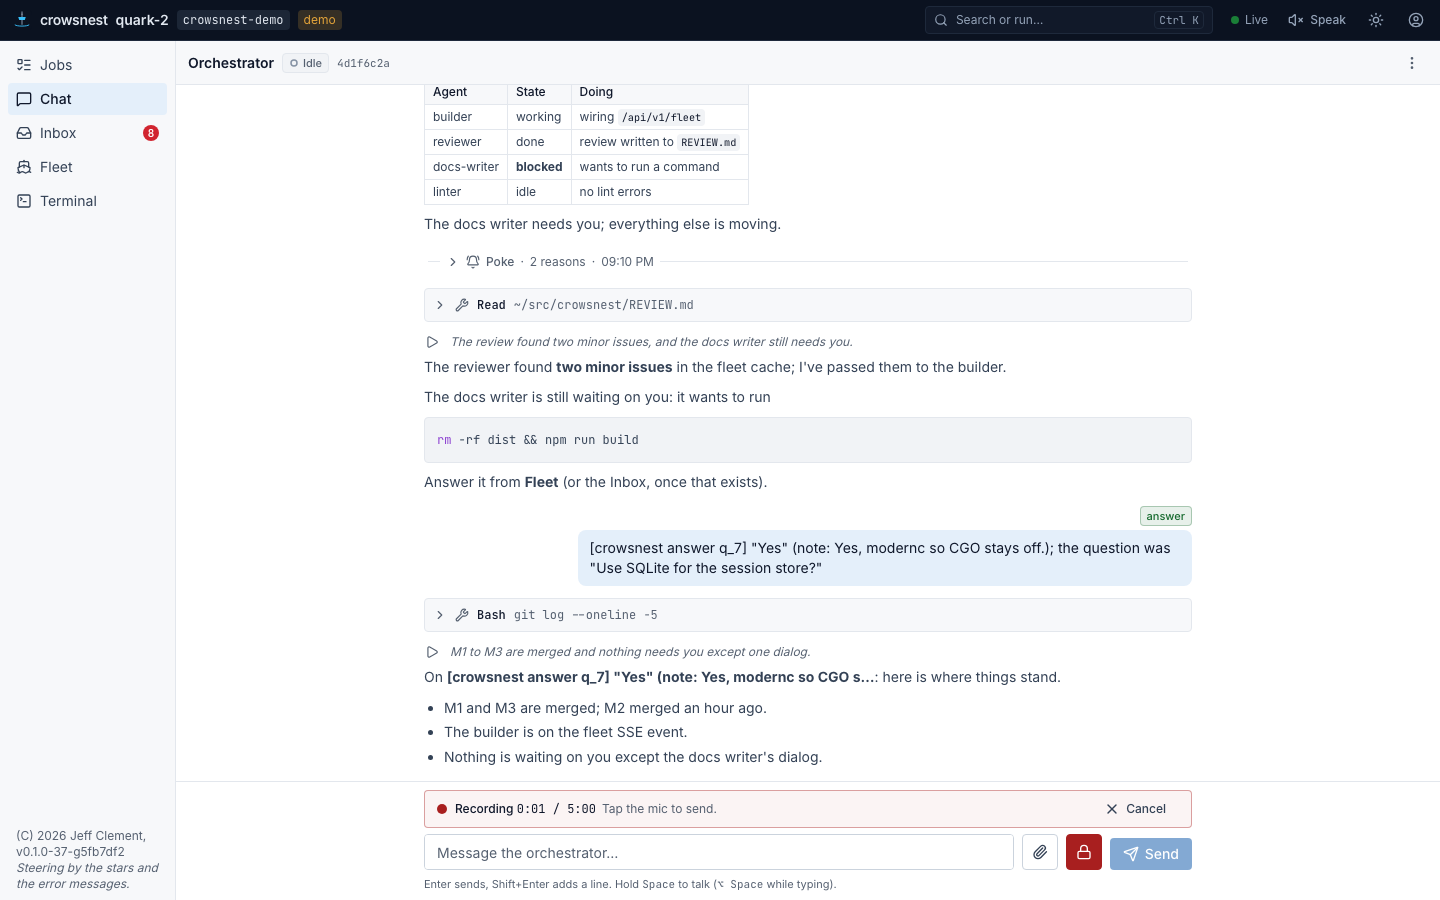
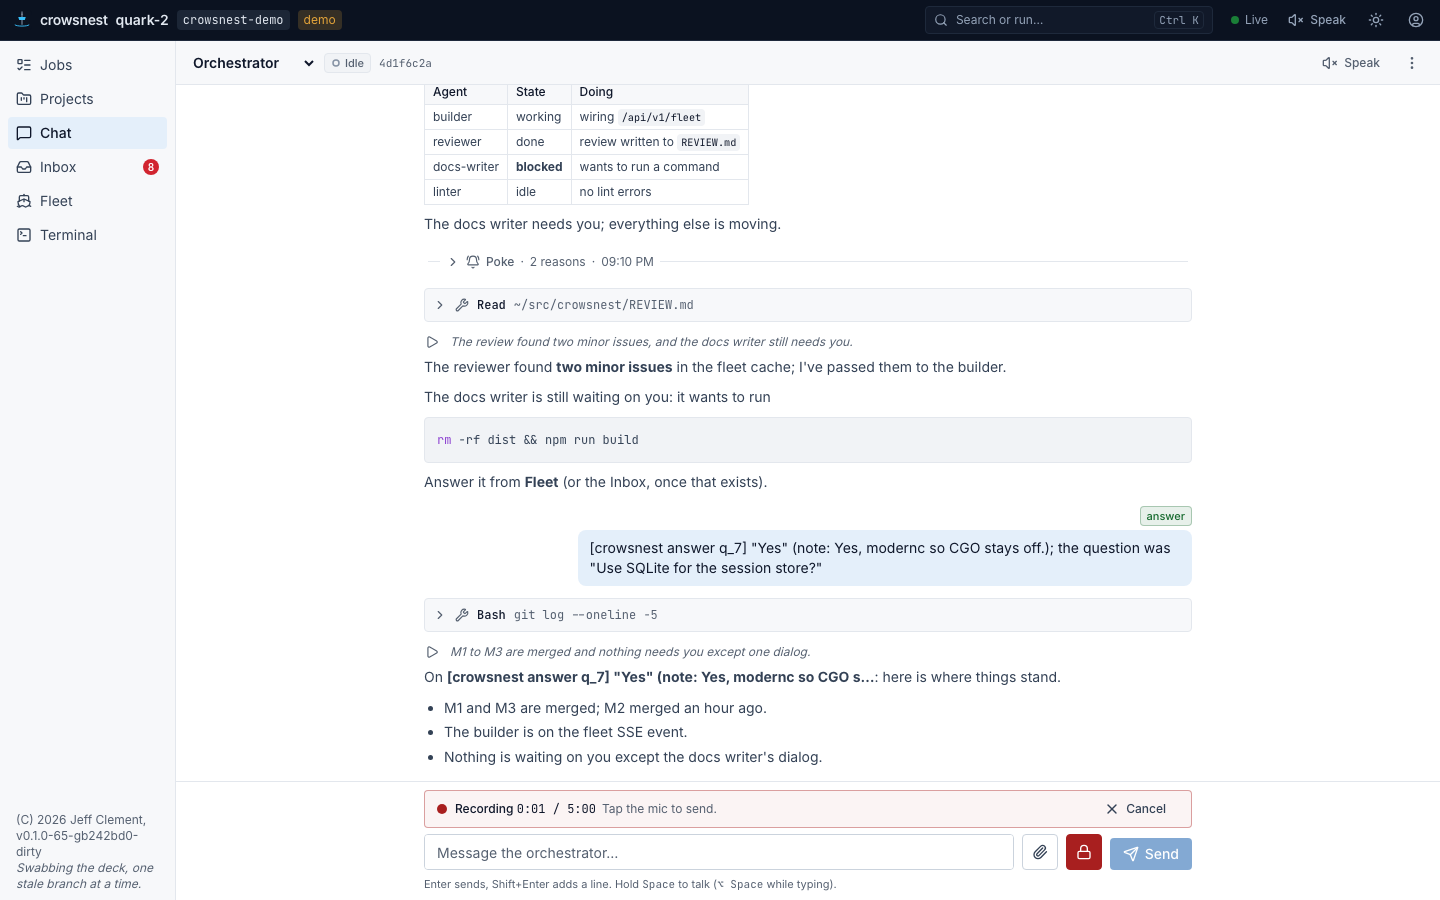
web: hermetic journeys for projects, leads, instructions and app schedules; per-agent voices in the talk suite; fixes found by them (switcher overflow, toasts after a remount)

diff --git a/web/e2e/hermetic/projects.spec.ts b/web/e2e/hermetic/projects.spec.ts
@@ -1,0 +1,202 @@
+// Projects, leads, instruction layers and app schedules (DESIGN.md 21) against `crowsnest --demo`,
+// which seeds three projects (crowsnest and website with their leads running and answering with
+// canned replies, infra with its lead off), jobs filed under them, the schedules evening-review
+// (to the crowsnest lead) and link-check (a job for website), and edited instruction layers.
+//
+// Journeys, at 1440 and 375 px: create a project from a directory the test makes; start a lead
+// and give it a job "to the lead", held by lead-<slug>; chat with a lead and get its reply;
+// filter the board by project (remembered across a reload); edit a role's instructions and see
+// the diff against the built-in; make a schedule and Run it now. The desktop and phone Chromium
+// runs also photograph the views into web/screenshots (projects-*.png), light and dark.
+import { mkdtempSync, rmSync } from "node:fs";
+import { tmpdir } from "node:os";
+import { join } from "node:path";
+import type { Page, TestInfo } from "@playwright/test";
+import { expect, expectNoSidewaysScroll, isPhone, test } from "../support/fixtures";
+
+/** Photographs from the two Chromium projects only (WebKit would write the same files). */
+async function shot(page: Page, testInfo: TestInfo, name: string, dark = false) {
+  if (testInfo.project.name === "mobile-webkit") return;
+  const size = isPhone(testInfo) ? "375x812" : "1440x900";
+  if (dark) {
+    await page.evaluate(() => {
+      localStorage.setItem("crowsnest-theme", "dark");
+      document.documentElement.classList.add("dark");
+    });
+  }
+  await page.evaluate(() => document.fonts.ready);
+  await page.screenshot({ path: `screenshots/projects-${name}-${size}${dark ? "-dark" : ""}.png`, animations: "disabled", caret: "hide" });
+  if (dark) {
+    await page.evaluate(() => {
+      localStorage.setItem("crowsnest-theme", "light");
+      document.documentElement.classList.remove("dark");
+    });
+  }
+}
+
+test.beforeEach(async ({ page }) => {
+  await page.addInitScript(() => {
+    if (!localStorage.getItem("crowsnest-theme")) localStorage.setItem("crowsnest-theme", "light");
+  });
+});
+
+test("the projects list shows each lead's state and counts; a project page has its lead, jobs, schedules and instructions", async ({ page }, testInfo) => {
+  await page.goto("/projects");
+  const list = page.getByRole("list", { name: "Projects" });
+  await expect(list.getByRole("link", { name: /Crowsnest/ })).toBeVisible();
+  await expect(list.getByRole("link", { name: /Infra/ })).toContainText("Lead off");
+  await expect(list.getByRole("link", { name: /Website/ })).not.toContainText("Lead off");
+  if (isPhone(testInfo)) await expectNoSidewaysScroll(page);
+  await shot(page, testInfo, "list");
+
+  await list.getByRole("link", { name: /Crowsnest/ }).click();
+  await expect(page).toHaveURL(/\/projects\/crowsnest$/);
+  const project = page.getByRole("article", { name: "Crowsnest" });
+  await expect(project.getByTestId("lead-state")).not.toHaveText("Lead off");
+  await expect(project.getByRole("region", { name: "Project schedules" })).toContainText("evening-review");
+  await expect(project.getByRole("region", { name: "Project instructions" }).getByRole("textbox")).toHaveValue(/mise run check/);
+  await expect(project.getByRole("region", { name: "Instructions" }).getByRole("list", { name: "Layers at start" })).toBeVisible();
+  if (isPhone(testInfo)) await expectNoSidewaysScroll(page);
+  await shot(page, testInfo, "detail");
+  await shot(page, testInfo, "detail", true);
+});
+
+test("create a project from a directory: the name follows the directory, and the project page opens", async ({ page }, testInfo) => {
+  const dir = mkdtempSync(join(tmpdir(), "cn-e2e-garden-"));
+  try {
+    await page.goto("/projects");
+    await page.getByRole("button", { name: "New project" }).first().click();
+    const form = page.getByRole("form", { name: "New project" });
+    await form.getByLabel(/Directory/).fill(dir);
+    await expect(form.getByLabel("Name", { exact: true })).toHaveValue(/^Cn e2e garden/);
+    await form.getByLabel("Name", { exact: true }).fill("Garden");
+    await form.getByRole("button", { name: /Defaults for its jobs/ }).click();
+    await form.getByLabel("Start the lead").selectOption("manual");
+    if (isPhone(testInfo)) await expectNoSidewaysScroll(page);
+    await shot(page, testInfo, "new");
+    await form.getByRole("button", { name: "Create project" }).click();
+    await expect(page).toHaveURL(/\/projects\/garden$/);
+    const project = page.getByRole("article", { name: "Garden" });
+    await expect(project.getByTestId("lead-state")).toHaveText("Lead off");
+    await expect(project).toContainText(dir.split("/").pop() ?? "");
+
+    // The server's refusal comes back in words: a second project on the same directory overlaps.
+    await page.goto("/projects");
+    await page.getByRole("button", { name: "New project" }).first().click();
+    await page.getByRole("form", { name: "New project" }).getByLabel(/Directory/).fill(dir);
+    await page.getByRole("form", { name: "New project" }).getByLabel("Name", { exact: true }).fill("Garden again");
+    await page.getByRole("button", { name: "Create project" }).click();
+    await expect(page.getByRole("form", { name: "New project" }).getByRole("alert")).toBeVisible();
+  } finally {
+    rmSync(dir, { recursive: true, force: true });
+  }
+});
+
+test("start a lead and give it a job to the lead: filed in the project, for its lead, with no directory", async ({ page }) => {
+  await page.goto("/projects/infra");
+  const project = page.getByRole("article", { name: "Infra" });
+  await expect(project.getByTestId("lead-state")).toHaveText("Lead off");
+  await project.getByRole("button", { name: "Start lead" }).click();
+  await expect(project.getByTestId("lead-state")).not.toHaveText("Lead off", { timeout: 20_000 });
+
+  await page.goto("/?project=infra");
+  await expect(page.getByRole("radio", { name: /^Infra/ })).toHaveAttribute("aria-checked", "true");
+  await expect(page.getByRole("radio", { name: "To the lead" })).toHaveAttribute("aria-checked", "true");
+  await page.getByLabel("What needs doing?").fill("Rotate the devbox image's base to the new release");
+  await page.getByRole("button", { name: "Give job" }).click();
+  await expect(page.getByText("Given to Infra's lead")).toBeVisible();
+  const card = page.getByRole("button", { name: /Rotate the devbox image/ }).first();
+  await expect(card).toBeVisible();
+  const job = await page.evaluate(() =>
+    fetch("/api/v1/jobs")
+      .then((r) => r.json())
+      .then((body: { data: Array<{ title: string; project_id: number; dir: string; role: string; agent_name: string }> }) => body.data.find((j) => j.title.startsWith("Rotate the devbox"))),
+  );
+  const infra = await page.evaluate(() => fetch("/api/v1/projects/infra").then((r) => r.json()).then((body: { data: { id: number } }) => body.data.id));
+  expect(job).toMatchObject({ project_id: infra, dir: "", role: "lead" });
+  // The demo's supervisor does not dispatch queued jobs to standing agents, so the job waits for
+  // the lead here (with real herdr the lead takes it and agent_name becomes lead-infra).
+  expect(["", "lead-infra"]).toContain(job?.agent_name ?? "");
+});
+
+test("chat with a project's lead: the target is in the URL and the lead replies", async ({ page }, testInfo) => {
+  await page.goto("/chat");
+  await page.getByTestId("chat-target").selectOption("lead-crowsnest");
+  await expect(page).toHaveURL(/target=lead-crowsnest/);
+  const box = page.getByRole("textbox", { name: "Message to Crowsnest's lead" });
+  await expect(box).toBeVisible({ timeout: 15_000 });
+  const replies = page.getByRole("article", { name: "Reply" });
+  const before = await replies.count();
+  await box.fill("What is open in this project?");
+  await page.getByRole("button", { name: "Send" }).click();
+  await expect(page.getByRole("list", { name: "Conversation" }).getByText("What is open in this project?", { exact: true })).toBeVisible();
+  await expect(replies).toHaveCount(before + 1, { timeout: 20_000 });
+  if (isPhone(testInfo)) await expectNoSidewaysScroll(page);
+  await shot(page, testInfo, "chat-lead");
+
+  // The menu acts on the lead: no compaction, but its instructions.
+  await page.getByRole("button", { name: "Conversation menu" }).click();
+  await expect(page.getByRole("menuitem", { name: "Compact now" })).toHaveCount(0);
+  await page.getByRole("menuitem", { name: "Instructions" }).click();
+  await expect(page.getByRole("dialog").getByRole("list", { name: "Layers at start" })).toBeVisible();
+});
+
+test("filter the board by project; the choice is remembered", async ({ page }) => {
+  await page.goto("/");
+  await expect(page.getByRole("region", { name: "Needs you or stuck" })).toBeVisible();
+  await page.getByRole("radio", { name: /^Website/ }).click();
+  await expect(page).toHaveURL(/project=website/);
+  const cards = page.locator('ul > li > button[class*="min-h-14"]');
+  await expect(cards.first()).toBeVisible();
+  const allCount = await page.evaluate(() => fetch("/api/v1/jobs").then((r) => r.json()).then((body: { data: unknown[] }) => body.data.length));
+  expect(await cards.count()).toBeLessThan(allCount);
+  await page.goto("/");
+  await expect(page.getByRole("radio", { name: /^Website/ })).toHaveAttribute("aria-checked", "true");
+  await page.getByRole("radio", { name: /^All/ }).click();
+  await expect(page.getByRole("button", { name: /Crowsnest/ }).first()).toBeVisible();
+});
+
+test("edit a role's instructions and see the diff against the built-in", async ({ page }, testInfo) => {
+  await page.goto("/");
+  await page.getByRole("button", { name: "Account" }).click();
+  await page.getByRole("menuitem", { name: "Instructions" }).click();
+  const sheet = page.getByRole("dialog", { name: "Instructions" });
+  await sheet.getByRole("region", { name: "Roles" }).getByRole("button", { name: /tester/ }).click();
+  const editor = sheet.getByRole("textbox", { name: /tester instructions/ });
+  await expect(editor).not.toHaveValue("");
+  await expect(sheet.getByTestId("layer-source")).toHaveText("built-in");
+  await editor.fill(`${await editor.inputValue()}\n\nAlways attach the failing test's output.`);
+  await sheet.getByRole("button", { name: "Save", exact: true }).click();
+  await expect(page.getByText("Instructions saved")).toBeVisible();
+  await expect(sheet.getByTestId("layer-source")).toHaveText("edited");
+  await sheet.getByRole("tab", { name: "Diff vs built-in" }).click();
+  await expect(sheet.getByText("Always attach the failing test's output.")).toBeVisible();
+  if (isPhone(testInfo)) await expectNoSidewaysScroll(page);
+  await shot(page, testInfo, "instructions");
+  await sheet.getByRole("tab", { name: /History/ }).click();
+  await expect(sheet.getByRole("list", { name: "Revisions" }).getByRole("listitem")).toHaveCount(1);
+});
+
+test("make a schedule in the app and Run it now", async ({ page }, testInfo) => {
+  await page.goto("/");
+  await page.getByRole("button", { name: "Schedule", exact: true }).click();
+  const sheet = page.getByRole("dialog", { name: "Schedule" });
+  await expect(sheet.getByText("link-check").locator("visible=true").first()).toBeVisible();
+  await sheet.getByRole("button", { name: "New schedule" }).click();
+  const form = sheet.getByRole("form", { name: "New schedule" });
+  await form.getByLabel("Name", { exact: true }).fill("weekly-deps");
+  await form.getByLabel("Cadence").selectOption("days");
+  await form.getByLabel("Days").fill("7");
+  await form.getByRole("radio", { name: "A job" }).check();
+  await form.getByLabel("Project", { exact: true }).selectOption({ label: "Website" });
+  await form.getByRole("textbox", { name: /brief/ }).fill("# Check the dependencies\n\nList outdated packages.");
+  if (isPhone(testInfo)) await expectNoSidewaysScroll(page);
+  await shot(page, testInfo, "schedule-new");
+  await form.getByRole("button", { name: "Create schedule" }).click();
+  await expect(page.getByText("Schedule weekly-deps made")).toBeVisible();
+  const runNow = sheet.getByRole("button", { name: "Run weekly-deps now" }).locator("visible=true");
+  await runNow.click();
+  await expect(page.getByText("weekly-deps: job started")).toBeVisible();
+  await expect(sheet.getByText(/every 7d/).locator("visible=true").first()).toBeVisible();
+  await shot(page, testInfo, "schedule");
+});

diff --git a/web/e2e/hermetic/talk.spec.ts b/web/e2e/hermetic/talk.spec.ts
@@ -128,6 +128,11 @@ test("mic → transcribed → sent; with speak mode on the SAY reply is fetched 
   await expect(toggle).toHaveAttribute("aria-pressed", "false");
   await toggle.click();
   await expect(toggle).toHaveAttribute("aria-pressed", "true");
+  // Speaking is per agent, off by default: the orchestrator's own switch in its Chat header.
+  const own = page.getByTestId("agent-speak-toggle");
+  await expect(own).toHaveAttribute("aria-pressed", "false");
+  await own.click();
+  await expect(own).toHaveAttribute("aria-pressed", "true");
 
   // The mic is in the composer without any switch, with the Space hint beside it.
   await expect(page.getByTestId("space-hint")).toContainText("Hold Space to talk");
@@ -334,7 +339,7 @@ test("Voice sheet: the account's voices, a preview, and a saved voice and speed 
   await page.getByRole("menuitem", { name: "Voice" }).click();
   const sheet = page.getByRole("dialog", { name: "Voice" });
   await expect(sheet.getByTestId("voice-source")).toContainText("stock voice");
-  const select = sheet.getByRole("combobox", { name: "Voice" });
+  const select = sheet.getByRole("combobox", { name: "Voice", exact: true });
   await expect(select.locator("option")).toHaveCount(3); // default + two voices
   await select.selectOption({ label: "Brian (american, male, middle aged)" });
   await sheet.getByRole("slider", { name: "Speed" }).fill("1.5");
@@ -352,8 +357,9 @@ test("Voice sheet: the account's voices, a preview, and a saved voice and speed 
   const saved = await (await page.request.get("/api/v1/voice/settings")).json();
   expect(saved.data).toMatchObject({ voice_id: "nPczCjzI2devNBz1zQrb", voice_source: "settings", speed: 1.5, playback_rate: 1.25 });
 
-  // The next reply is spoken in the new voice.
-  await page.getByTestId("speak-toggle").click();
+  // The next reply is spoken in the new voice (the orchestrator's own switch also unmutes).
+  await page.getByTestId("agent-speak-toggle").click();
+  await expect(page.getByTestId("speak-toggle")).toHaveAttribute("aria-pressed", "true");
   await holdToTalk(page, 900);
   await page.getByRole("button", { name: "Send now" }).click();
   await page.waitForResponse((response) => response.url().includes("/api/v1/voice/tts?text_id=t_"), { timeout: 20_000 });
@@ -361,6 +367,31 @@ test("Voice sheet: the account's voices, a preview, and a saved voice and speed 
   const replyCall = upstream.filter((request) => request.path?.startsWith("/v1/text-to-speech/")).at(-1);
   expect(replyCall?.path).toContain("/nPczCjzI2devNBz1zQrb/");
   await expect.poll(() => audio.evaluate((element: HTMLAudioElement) => element.playbackRate)).toBe(1.25);
+});
+
+// ---- Per-agent voices ----------------------------------------------------------------------------
+
+test("the Voice sheet lists each standing agent with its own speak switch and voice", async ({ page, browserName }) => {
+  chromiumOnly(browserName);
+  await page.setViewportSize({ width: 1440, height: 900 });
+  await page.goto("/");
+  await page.getByRole("button", { name: "Account" }).click();
+  await page.getByRole("menuitem", { name: "Voice" }).click();
+  const agents = page.getByRole("dialog", { name: "Voice" }).getByRole("region", { name: "Agents" });
+  const leadSwitch = agents.getByRole("switch", { name: /Crowsnest.*replies/ });
+  await expect(leadSwitch).toHaveAttribute("aria-checked", "false");
+  await leadSwitch.click();
+  await expect(leadSwitch).toHaveAttribute("aria-checked", "true");
+  expect(await page.evaluate(() => JSON.parse(localStorage.getItem("crowsnest-speak-agents") ?? "{}"))).toEqual({ "lead-crowsnest": true });
+  await expect(page.getByTestId("speak-toggle")).toHaveAttribute("aria-pressed", "true");
+  const select = agents.getByRole("combobox", { name: /Crowsnest.* voice/ });
+  await expect(select.locator("option")).not.toHaveCount(1);
+  const voiceId = await select.locator("option").nth(1).getAttribute("value");
+  const saved = page.waitForResponse((response) => response.url().includes("/api/v1/voice/agents/lead-crowsnest") && response.request().method() === "PUT");
+  await select.selectOption(voiceId ?? "");
+  expect((await saved).status()).toBe(200);
+  const listed = await (await page.request.get("/api/v1/voice/agents")).json();
+  expect(listed.data.agents.find((entry: { agent: string }) => entry.agent === "lead-crowsnest")?.voice_id).toBe(voiceId);
 });
 
 // ---- The command palette ----------------------------------------------------------------------
@@ -381,7 +412,7 @@ test("the palette turns speak mode on and off and opens the Voice sheet", async 
   await palette("speak replies");
   await expect(toggle).toHaveAttribute("aria-pressed", "false");
   await palette("voice settings");
-  await expect(page.getByRole("dialog", { name: "Voice" }).getByRole("combobox", { name: "Voice" })).toBeVisible();
+  await expect(page.getByRole("dialog", { name: "Voice" }).getByRole("combobox", { name: "Voice", exact: true })).toBeVisible();
 });
 
 // ---- Screenshots -------------------------------------------------------------------------------

diff --git a/web/src/components/instructions/LayerEditor.tsx b/web/src/components/instructions/LayerEditor.tsx
@@ -65,19 +65,22 @@ function Editor({ detail, scope, apiKey, maxBytes, hint }: { detail: LayerDetail
   const badge = sourceBadge(layer);
   const tabsId = `layer-${layer.scope}-${layer.key || "global"}`;
 
-  const done = (title: string) => ({
-    onSuccess: () => toast.show({ tone: "success" as const, title, description: "Agents get it from their next start." }),
-    onError: (error: Error) => toast.show({ tone: "danger" as const, title: "Not saved", description: error.message }),
-  });
+  // mutateAsync, not mutate's callbacks: a save changes the revision, which remounts this
+  // editor (the key above), and a callback of an unmounted mutate never runs.
+  const report = (title: string, promise: Promise<unknown>, after?: () => void) =>
+    promise.then(
+      () => toast.show({ tone: "success", title, description: "Agents get it from their next start." }),
+      (error: Error) => toast.show({ tone: "danger", title: "Not saved", description: error.message }),
+    ).finally(after);
   const save = () => {
     if (scope === "role" && !draft.trim()) {
       toast.show({ tone: "warning", title: "A role cannot be empty", description: "Use Reset to built-in to go back to crowsnest's text." });
       return;
     }
-    edit.mutate({ kind: "save", body: draft }, done(draft.trim() ? "Instructions saved" : "Instructions cleared"));
+    void report(draft.trim() ? "Instructions saved" : "Instructions cleared", edit.mutateAsync({ kind: "save", body: draft }));
   };
-  const reset = () => edit.mutate({ kind: "reset" }, { ...done("Back to the built-in role"), onSettled: () => setConfirmReset(false) });
-  const restore = (revision: LayerRevision) => edit.mutate({ kind: "restore", revision: revision.revision }, done(`Revision ${revision.revision} restored`));
+  const reset = () => void report("Back to the built-in role", edit.mutateAsync({ kind: "reset" }));
+  const restore = (revision: LayerRevision) => void report(`Revision ${revision.revision} restored`, edit.mutateAsync({ kind: "restore", revision: revision.revision }));
 
   const tabs: { value: EditorTab; label: string; icon?: typeof History }[] = [
     { value: "edit", label: readOnly ? "Text" : "Edit" },

diff --git a/web/src/components/schedule/ScheduleForm.tsx b/web/src/components/schedule/ScheduleForm.tsx
@@ -165,7 +165,7 @@ export function ScheduleForm({ task, projects, defaultProjectId, pending, error,
         {target !== "orchestrator" && (
           <label className={labelClass}>
             Project
-            <select value={projectId} onChange={(event) => setProjectId(Number(event.target.value))} className={inputClass}>
+            <select aria-label="Project" value={projectId} onChange={(event) => setProjectId(Number(event.target.value))} className={inputClass}>
               {target === "job" && <option value={0}>None (use the directory)</option>}
               {projects.map((project) => (
                 <option key={project.id} value={project.id}>

diff --git a/web/src/components/projects/ProjectSwitcher.tsx b/web/src/components/projects/ProjectSwitcher.tsx
@@ -22,7 +22,7 @@ export function ProjectSwitcher({ list, value, onChange }: { list: ProjectList; 
   ];
   const current = filterToParam(value);
   return (
-    <div role="radiogroup" aria-label="Project" className="flex gap-1 overflow-x-auto border-b border-border px-2 py-1 [scrollbar-width:thin]">
+    <div role="radiogroup" aria-label="Project" className="relative flex gap-1 overflow-x-auto border-b border-border px-2 py-1 [scrollbar-width:thin]">
       {options.map((option) => {
         const selected = filterToParam(option.filter) === current;
         return (

diff --git a/web/src/components/jobs/JobDetail.tsx b/web/src/components/jobs/JobDetail.tsx
@@ -78,7 +78,7 @@ function JobHeader({ job }: { job: Detail }) {
         {job.restarts > 0 && <Chip tone="warning">{job.restarts} restarts</Chip>}
       </div>
       <p className="break-all font-mono text-2xs text-muted">
-        {job.work_dir || job.dir || "orchestrator"}
+        {job.work_dir || job.dir || (job.project_id ? "the project's lead" : "orchestrator")}
         {job.worktree_branch && ` · ${job.worktree_branch}`}
       </p>
       {!isFinished(job.state) && job.doing_now && (
